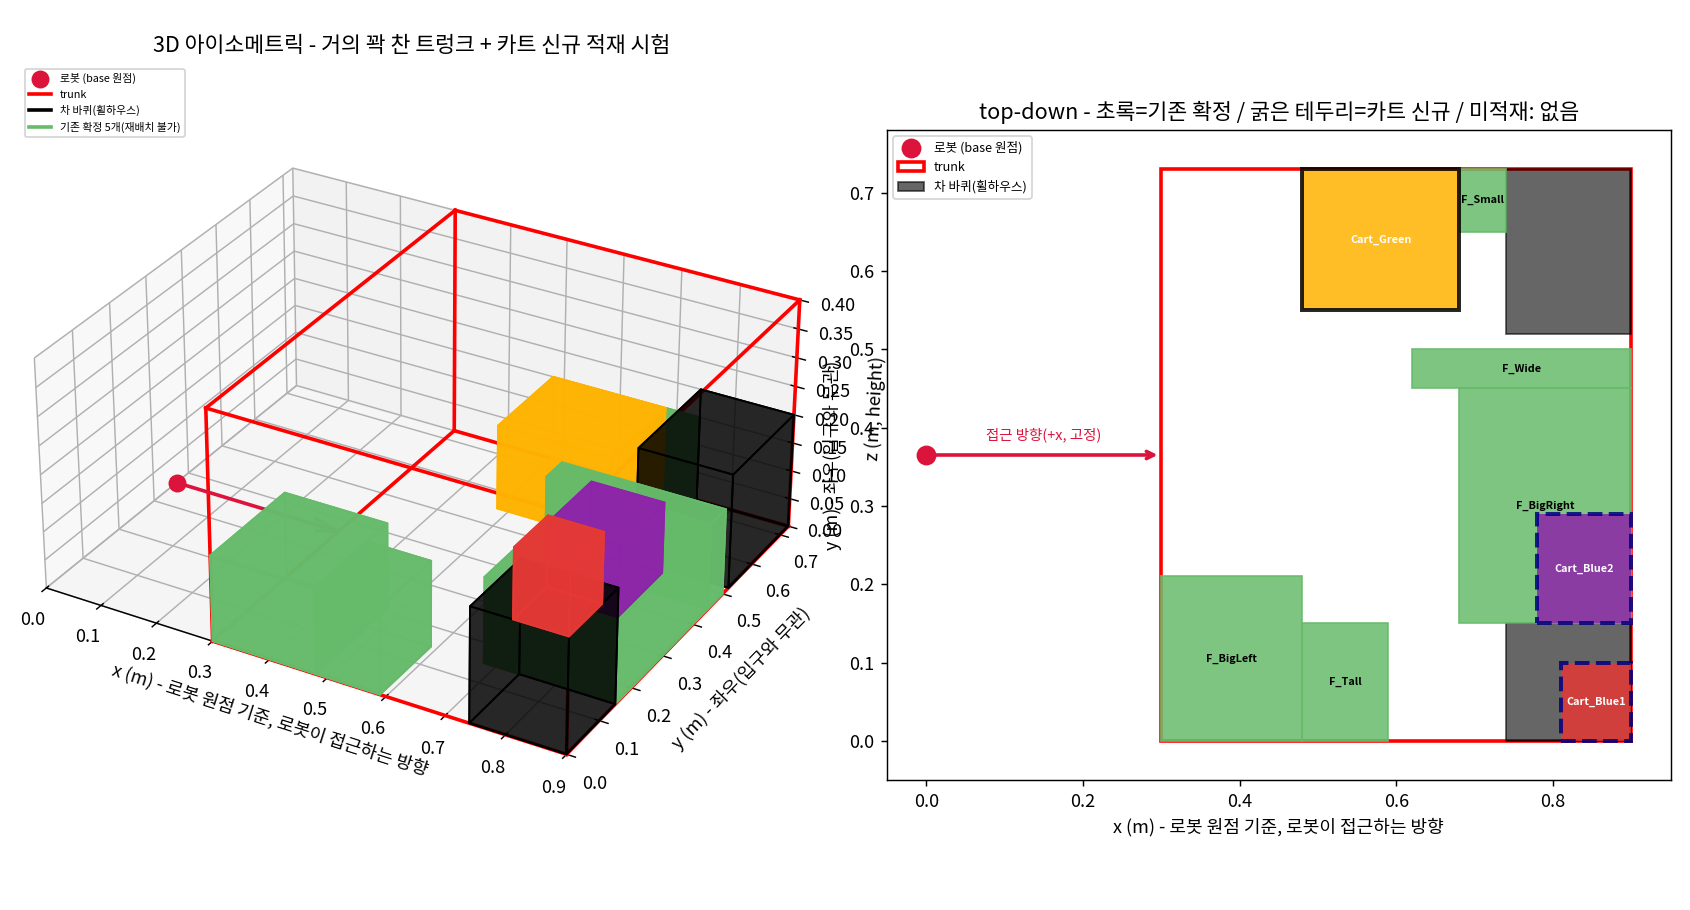
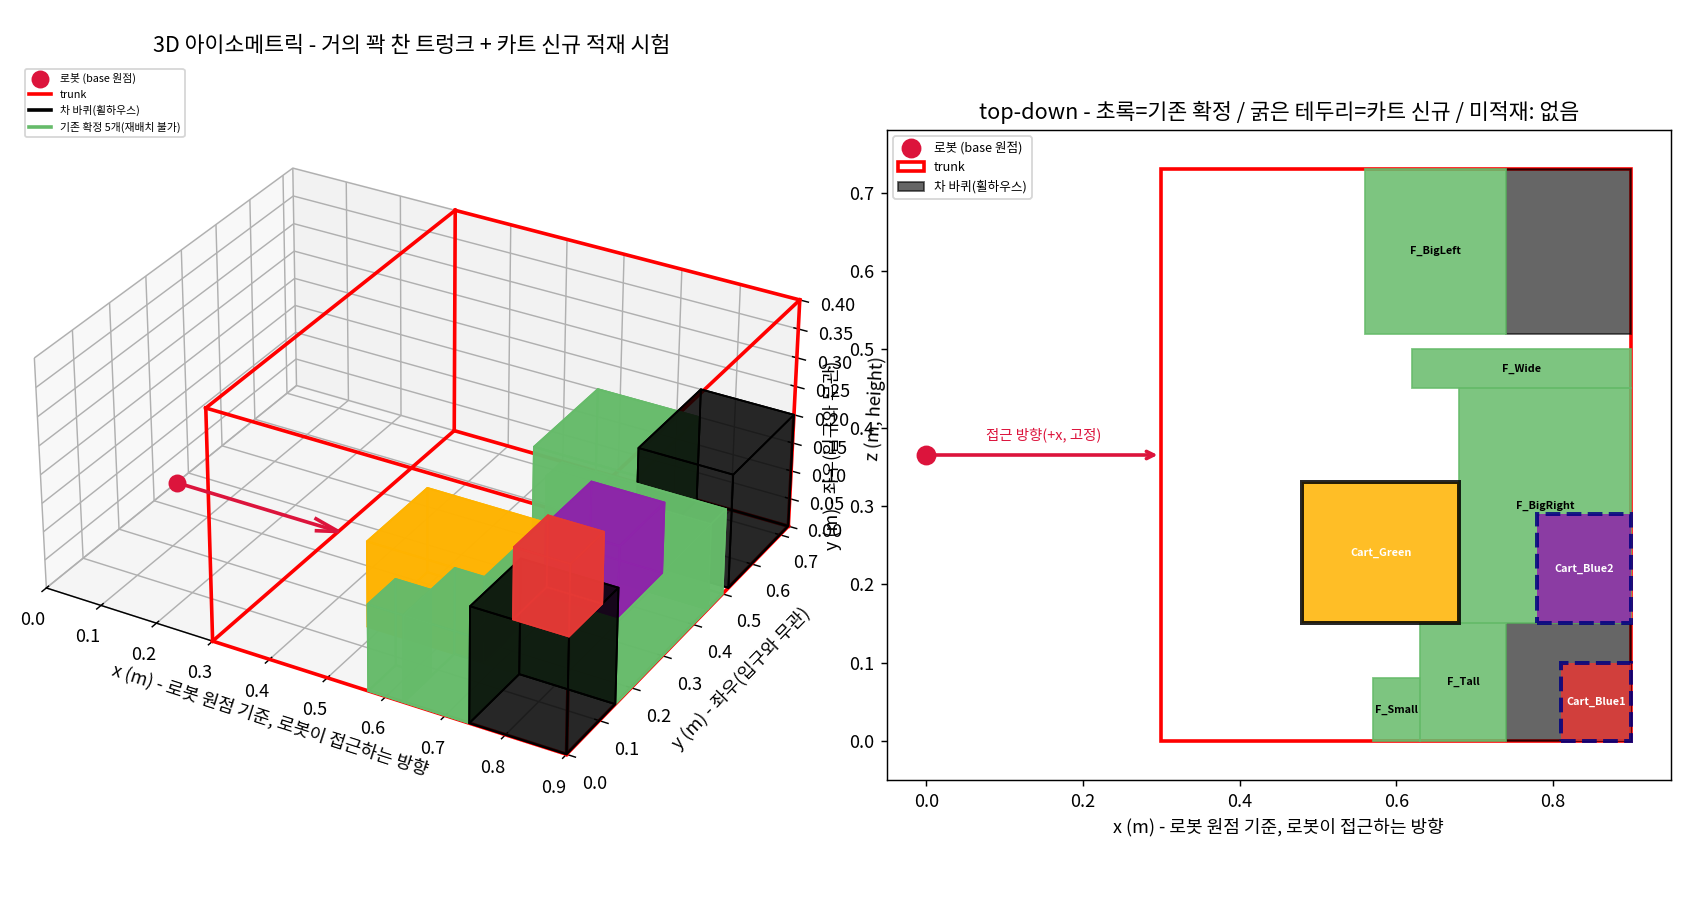
Add box-flush candidates and fix missing lower-bound check
generate_box_flush_candidates() (03) covers the case
generate_wall_flush_candidates() couldn't: a spot flush against the
near/far face of an already-placed box or obstacle, not just the
trunk's outer walls. Wired into place_one_box() (07). Reproduces and
fixes the exact F_BigLeft case (flush against F_BigRight/wheel
instead of being pushed to the entrance).

This surfaced a real, separate bug in is_candidate_valid() (04): it
only checked the upper bound (x+width <= trunk.width) and never the
lower bound (x >= 0). Previously unreachable since register_placement
candidates always start at 0, but generate_box_flush_candidates() can
legitimately compute a negative coordinate when a box is wider than
the gap in front of an obstacle — one such candidate (y=-0.3) was
incorrectly accepted as valid. Fixed at the source in 04, with its
own regression tests, rather than filtering in the candidate
generator.

Changed region(s): [[0.6769, 0.5231, 0.8923, 0.8308], [0.1231, 0.4, 0.4, 0.8], [0.7692, 0.1846, 0.8923, 0.3692]]

diff --git a/isaacpjt/Cart2Trunk/algorism/tests/test_box_flush_candidates.py b/isaacpjt/Cart2Trunk/algorism/tests/test_box_flush_candidates.py
@@ -1,0 +1,88 @@
+"""
+test_box_flush_candidates.py
+③+⑦ "이미 놓인 다른 박스 옆면에 딱 붙는 자리" 후보 누락 버그 재현 및 수정 검증.
+
+배경: generate_wall_flush_candidates()(⑦에서 이미 씀)는 트렁크 바깥쪽 벽(A/B/C)에
+딱 붙는 자리는 커버했지만, "이미 놓인 다른 박스" 옆면에 딱 붙는 자리는 다루지
+않는다. 실제 발견된 사례: 큰 박스(F_BigRight)가 먼저 벽 A 근처에 놓인 뒤, 그보다
+작은 박스(F_BigLeft)를 놓을 차례가 되면 F_BigRight 바로 앞(입구 쪽)에 딱 붙는
+자리가 물리적으로는 비어있는데도 후보가 안 만들어져서, 결국 입구까지 밀려나
+배치됐다.
+"""
+import sys, pathlib
+from importlib import import_module
+
+sys.path.insert(0, str(pathlib.Path(__file__).resolve().parent.parent))  # tests/ -> algorism/
+_m02 = import_module("02_trunk_space_state")
+_m03 = import_module("03_extreme_point_candidates")
+_m04 = import_module("04_candidate_validity_check")
+_m07 = import_module("07_placement_plan")
+
+Trunk = _m02.Trunk
+Box = _m03.Box
+PlacedBox = _m03.PlacedBox
+ExtremePointState = _m03.ExtremePointState
+generate_box_flush_candidates = _m03.generate_box_flush_candidates
+is_candidate_valid = _m04.is_candidate_valid
+place_one_box = _m07.place_one_box
+
+
+def test_generate_box_flush_candidates_adds_near_face_variant():
+    """
+    기존 후보 (0, 0, 0)이 있고, x=[0.38,0.60] y=[0.15,0.45]에 다른 박스가 놓여 있을 때,
+    폭 0.18짜리 박스라면 "그 박스 입구 쪽 면(x=0.38)에 딱 붙는" 좌표
+    (0.38-0.18, 0, 0) = (0.20, 0, 0)도 추가로 만들어져야 한다 (y,z는 겹치지 않지만
+    후보 생성 자체는 만들어두고, 실제 유효성은 ④가 걸러낸다 - 여기서는 그냥 후보
+    집합에 들어있는지만 확인).
+    """
+    trunk = Trunk(width=0.6, depth=0.73, height=0.4)
+    box = Box("F_BigLeft", width=0.18, depth=0.21, height=0.15)
+    neighbor = PlacedBox(box=Box("F_BigRight", 0.22, 0.30, 0.15), x=0.38, y=0.15, z=0.0)
+    existing = {(0.0, 0.15, 0.0)}  # neighbor와 같은 y를 쓰는 기존 후보
+
+    extra = generate_box_flush_candidates(box, trunk, existing, [neighbor])
+
+    assert (0.38 - 0.18, 0.15, 0.0) in extra
+
+
+def test_generate_box_flush_candidates_adds_far_face_variant():
+    """같은 상황에서 '그 박스를 지나 더 안쪽(far face)'에 붙는 좌표도 만들어져야 한다."""
+    trunk = Trunk(width=0.6, depth=0.73, height=0.4)
+    box = Box("Small", width=0.10, depth=0.10, height=0.15)
+    neighbor = PlacedBox(box=Box("Neighbor", 0.20, 0.20, 0.15), x=0.10, y=0.10, z=0.0)
+    existing = {(0.0, 0.10, 0.0)}
+
+    extra = generate_box_flush_candidates(box, trunk, existing, [neighbor])
+
+    assert (0.10 + 0.20, 0.10, 0.0) in extra  # neighbor의 먼 쪽 면(x=0.30)에 붙음
+
+
+def test_place_one_box_finds_spot_flush_against_neighboring_box():
+    """
+    실제로 발견된 사례의 최소 재현. 트렁크 깊이를 F_BigRight의 깊이와 똑같이
+    잡아서(0.30m), F_BigRight가 y 전체를 다 차지하게 만들었다 - 이러면 벽 A
+    쪽에 F_BigRight를 피해서 갈 수 있는 다른 y밴드 자체가 없으므로, F_BigLeft가
+    깊이 들어갈 수 있는 유일한 방법은 F_BigRight 바로 앞(x축)에 딱 붙는 것뿐이다
+    (다른 y밴드로 벽 A에 바로 붙는 대안이 있으면 그쪽이 더 깊어서 그게 이기는 게
+    맞는 동작이라 - 이 테스트는 그 대안 자체를 없애서 이번에 고친 후보만
+    순수하게 검증한다).
+    """
+    trunk = Trunk(width=0.6, depth=0.30, height=0.4)
+    state = ExtremePointState()
+    f_big_right = PlacedBox(box=Box("F_BigRight", 0.22, 0.30, 0.15), x=0.38, y=0.0, z=0.0)
+    state.register_placement(f_big_right)
+
+    f_big_left = Box("F_BigLeft", width=0.18, depth=0.30, height=0.15)
+
+    # 전제 확인: (0.20, 0.0, 0)이 실제로 겹치지 않는 유효한 자리인지
+    assert is_candidate_valid(0.20, 0.0, 0.0, f_big_left, trunk, state.placed)
+    # 전제 확인: 이 좌표가 순수 모서리 확장 + 벽 후보만으로는 없었는지 (버그 재현)
+    m03 = import_module("03_extreme_point_candidates")
+    wall_only_pool = state.candidates | m03.generate_wall_flush_candidates(f_big_left, trunk, state.candidates)
+    assert (0.20, 0.0, 0.0) not in wall_only_pool
+
+    plan = place_one_box(f_big_left, trunk, state, order=1)
+
+    assert plan is not None
+    x, y, z = plan.position
+    assert abs(x - 0.20) < 1e-9, f"F_BigRight 바로 앞(x=0.20)이 아니라 x={x}에 배치됨"

diff --git a/isaacpjt/Cart2Trunk/algorism/03_extreme_point_candidates.py b/isaacpjt/Cart2Trunk/algorism/03_extreme_point_candidates.py
@@ -159,6 +159,56 @@ def generate_wall_flush_candidates(box: Box, trunk, candidates) -> Set[Tuple[flo
     return extra
 
 
+def _ranges_overlap(a: Tuple[float, float], b: Tuple[float, float]) -> bool:
+    """1차원 구간 두 개가 겹치는지 확인 (⑤ count_touching_faces와 같은 계산, 순환
+    import를 피하려고 여기 별도로 둠 - ⑤가 이미 ③을 불러오므로 반대 방향은 불가)."""
+    return a[0] < b[1] and a[1] > b[0]
+
+
+def generate_box_flush_candidates(box: Box, trunk, candidates, placed: List["PlacedBox"]) -> Set[Tuple[float, float, float]]:
+    """
+    "이 박스라면 이미 놓인 다른 박스 옆면에 딱 붙을 수 있는 자리" 후보를 추가로 만든다.
+
+    generate_wall_flush_candidates()는 트렁크 바깥쪽 벽(A/B/C)에 딱 붙는 자리는
+    커버하지만, "이미 놓인 다른 박스" 옆면에 딱 붙는 자리는 다루지 않는다. 실제
+    발견된 사례: 큰 박스가 먼저 벽 A 근처에 놓이면, 그다음 박스가 그 큰 박스
+    바로 앞(입구 쪽)에 딱 붙을 수 있는 자리가 물리적으로는 비어있는데도, 그 좌표를
+    만들어줄 기존 모서리가 없어서 후보 자체가 안 생기는 경우가 있었다.
+
+    이미 있는 후보들의 좌표를 재사용해서, 각 놓인 박스와 y/z(또는 x/z) 구간이
+    겹치는 조합마다 그 박스의 가까운 면·먼 면에 딱 붙는 변형을 둘 다 만든다.
+    "붙였을 때 실제로 다른 것과 안 겹치는지"는 여기서 판단하지 않고 ④(유효성
+    검사)에 그대로 맡긴다 - 겹치는 조합만 안 걸러내는 정도는 후보가 좀 늘어나는
+    것뿐이라 문제없고, 굳이 두 번 계산할 필요가 없다. 장애물 하나를 넘어서 그
+    뒤의 더 깊은 틈을 찾는 것까지는 다루지 않는다 (①과 같은 MVP 범위 - 바로
+    인접한 장애물까지만 본다).
+    """
+    extra: Set[Tuple[float, float, float]] = set()
+
+    for (x, y, z) in candidates:
+        x0, x1 = x, x + box.width
+        y0, y1 = y, y + box.depth
+        z0, z1 = z, z + box.height
+
+        for p in placed:
+            px0, px1 = p.x_range
+            py0, py1 = p.y_range
+            pz0, pz1 = p.z_range
+
+            # x축 방향: 이 박스의 y/z가 p와 겹치면, p의 가까운 면(입구 쪽)과
+            # 먼 면(안쪽) 각각에 딱 붙는 x로 바꿔치기
+            if _ranges_overlap((y0, y1), (py0, py1)) and _ranges_overlap((z0, z1), (pz0, pz1)):
+                extra.add((px0 - box.width, y, z))  # p 바로 앞(입구 쪽)에 붙음
+                extra.add((px1, y, z))              # p를 지나 바로 뒤(안쪽)에 붙음
+
+            # y축 방향: 이 박스의 x/z가 p와 겹치면, p의 양쪽 면에 딱 붙는 y로 바꿔치기
+            if _ranges_overlap((x0, x1), (px0, px1)) and _ranges_overlap((z0, z1), (pz0, pz1)):
+                extra.add((x, py0 - box.depth, z))
+                extra.add((x, py1, z))
+
+    return extra
+
+
 if __name__ == "__main__":
     # 간단 데모: 박스 하나 놓으면 후보가 어떻게 늘어나는지 확인
     state = ExtremePointState()

diff --git a/isaacpjt/Cart2Trunk/algorism/tests/test_04_candidate_validity_check.py b/isaacpjt/Cart2Trunk/algorism/tests/test_04_candidate_validity_check.py
@@ -1,0 +1,47 @@
+"""
+test_04_candidate_validity_check.py
+④ is_candidate_valid()이 트렁크 경계의 "아래쪽"(x<0, y<0, z<0)도 제대로
+거부하는지 검증.
+
+배경: 지금까지는 x+width<=trunk.width 같은 윗쪽 경계만 확인하고, x>=0 같은
+아래쪽 경계는 전혀 확인하지 않았다. register_placement()가 만드는 후보는 항상
+0에서 시작해서 이 구멍이 그동안 드러나지 않았는데, ③에 새로 추가한
+generate_box_flush_candidates()가 "박스 폭이 앞쪽 빈 틈보다 넓으면" 음수 좌표를
+계산해낼 수 있다는 게 실제로 발견됨 (y=-0.3인데도 유효한 후보로 통과했었음).
+"""
+import sys, pathlib
+from importlib import import_module
+
+sys.path.insert(0, str(pathlib.Path(__file__).resolve().parent.parent))  # tests/ -> algorism/
+_m02 = import_module("02_trunk_space_state")
+_m03 = import_module("03_extreme_point_candidates")
+_m04 = import_module("04_candidate_validity_check")
+
+Trunk = _m02.Trunk
+Box = _m03.Box
+is_candidate_valid = _m04.is_candidate_valid
+
+
+def test_negative_x_is_rejected():
+    trunk = Trunk(width=1.0, depth=1.0, height=1.0)
+    box = Box("unit", width=0.2, depth=0.2, height=0.2)
+    assert is_candidate_valid(-0.1, 0.0, 0.0, box, trunk, placed=[]) is False
+
+
+def test_negative_y_is_rejected():
+    trunk = Trunk(width=1.0, depth=1.0, height=1.0)
+    box = Box("unit", width=0.2, depth=0.2, height=0.2)
+    assert is_candidate_valid(0.0, -0.3, 0.0, box, trunk, placed=[]) is False
+
+
+def test_negative_z_is_rejected():
+    trunk = Trunk(width=1.0, depth=1.0, height=1.0)
+    box = Box("unit", width=0.2, depth=0.2, height=0.2)
+    assert is_candidate_valid(0.0, 0.0, -0.05, box, trunk, placed=[]) is False
+
+
+def test_origin_corner_still_valid():
+    """회귀 방지 - 경계값(0,0,0)은 여전히 유효해야 한다 (부동소수점 여유값 유지 확인)."""
+    trunk = Trunk(width=1.0, depth=1.0, height=1.0)
+    box = Box("unit", width=0.2, depth=0.2, height=0.2)
+    assert is_candidate_valid(0.0, 0.0, 0.0, box, trunk, placed=[]) is True

diff --git a/isaacpjt/Cart2Trunk/algorism/07_placement_plan.py b/isaacpjt/Cart2Trunk/algorism/07_placement_plan.py
@@ -26,6 +26,7 @@ Box = _m03.Box
 PlacedBox = _m03.PlacedBox
 ExtremePointState = _m03.ExtremePointState
 generate_wall_flush_candidates = _m03.generate_wall_flush_candidates
+generate_box_flush_candidates = _m03.generate_box_flush_candidates
 is_candidate_valid_with_stacking = _m13.is_candidate_valid_with_stacking
 score_candidate = _m05.score_candidate
 
@@ -52,10 +53,15 @@ def place_one_box(
     allow_stacking=False(기본값)면 z>0 후보(박스 위에 놓는 자리)는 ⑬에서
     무조건 거부되어 지금의 1층 전용 동작과 동일하게 동작한다.
     """
-    # [③ 보강] 순수 모서리 확장만으로는 못 만드는 "이 박스라면 벽에 딱 붙는 자리"를
-    # 지금 놓으려는 box 크기 기준으로 추가 생성 - state.candidates에는 저장하지
-    # 않고 이번 배치 판단에만 잠깐 섞어 쓴다 (다른 박스 크기에는 안 맞을 수 있어서)
-    candidate_pool = state.candidates | generate_wall_flush_candidates(box, trunk, state.candidates)
+    # [③ 보강] 순수 모서리 확장만으로는 못 만드는 "이 박스라면 벽에 딱 붙는 자리"
+    # + "이미 놓인 다른 박스 옆면에 딱 붙는 자리"를 지금 놓으려는 box 크기 기준으로
+    # 추가 생성 - state.candidates에는 저장하지 않고 이번 배치 판단에만 잠깐 섞어
+    # 쓴다 (다른 박스 크기에는 안 맞을 수 있어서)
+    candidate_pool = (
+        state.candidates
+        | generate_wall_flush_candidates(box, trunk, state.candidates)
+        | generate_box_flush_candidates(box, trunk, state.candidates, state.placed)
+    )
 
     # [④+⑬] 후보 좌표들 중, 겹치지도 밖으로 나가지도 않고(④) 충분히
     # 받쳐지는(⑬, allow_stacking일 때만) 것만 추림

diff --git a/isaacpjt/Cart2Trunk/algorism/04_candidate_validity_check.py b/isaacpjt/Cart2Trunk/algorism/04_candidate_validity_check.py
@@ -73,6 +73,13 @@ def is_candidate_valid(x: float, y: float, z: float, box: "Box", trunk, placed: 
     if z + box.height > trunk.height + 1e-9:
         return False
 
+    # 아래쪽 경계(x<0 등)도 확인 - 지금까지는 register_placement()가 만드는 후보가
+    # 항상 0에서 시작해서 이 구멍이 드러난 적 없었는데, ③의
+    # generate_box_flush_candidates()가 "박스 폭이 앞쪽 빈 틈보다 넓은" 경우 음수
+    # 좌표를 계산해낼 수 있어서 실제로 필요해짐 (-1e-9는 위와 같은 이유의 여유값).
+    if x < -1e-9 or y < -1e-9 or z < -1e-9:
+        return False
+
     # 경계는 통과했으니, 이미 놓인 박스들과 하나라도 겹치면 무효
     candidate = PlacedBox(box=box, x=x, y=y, z=z)
     return not any(boxes_overlap(candidate, p) for p in placed)